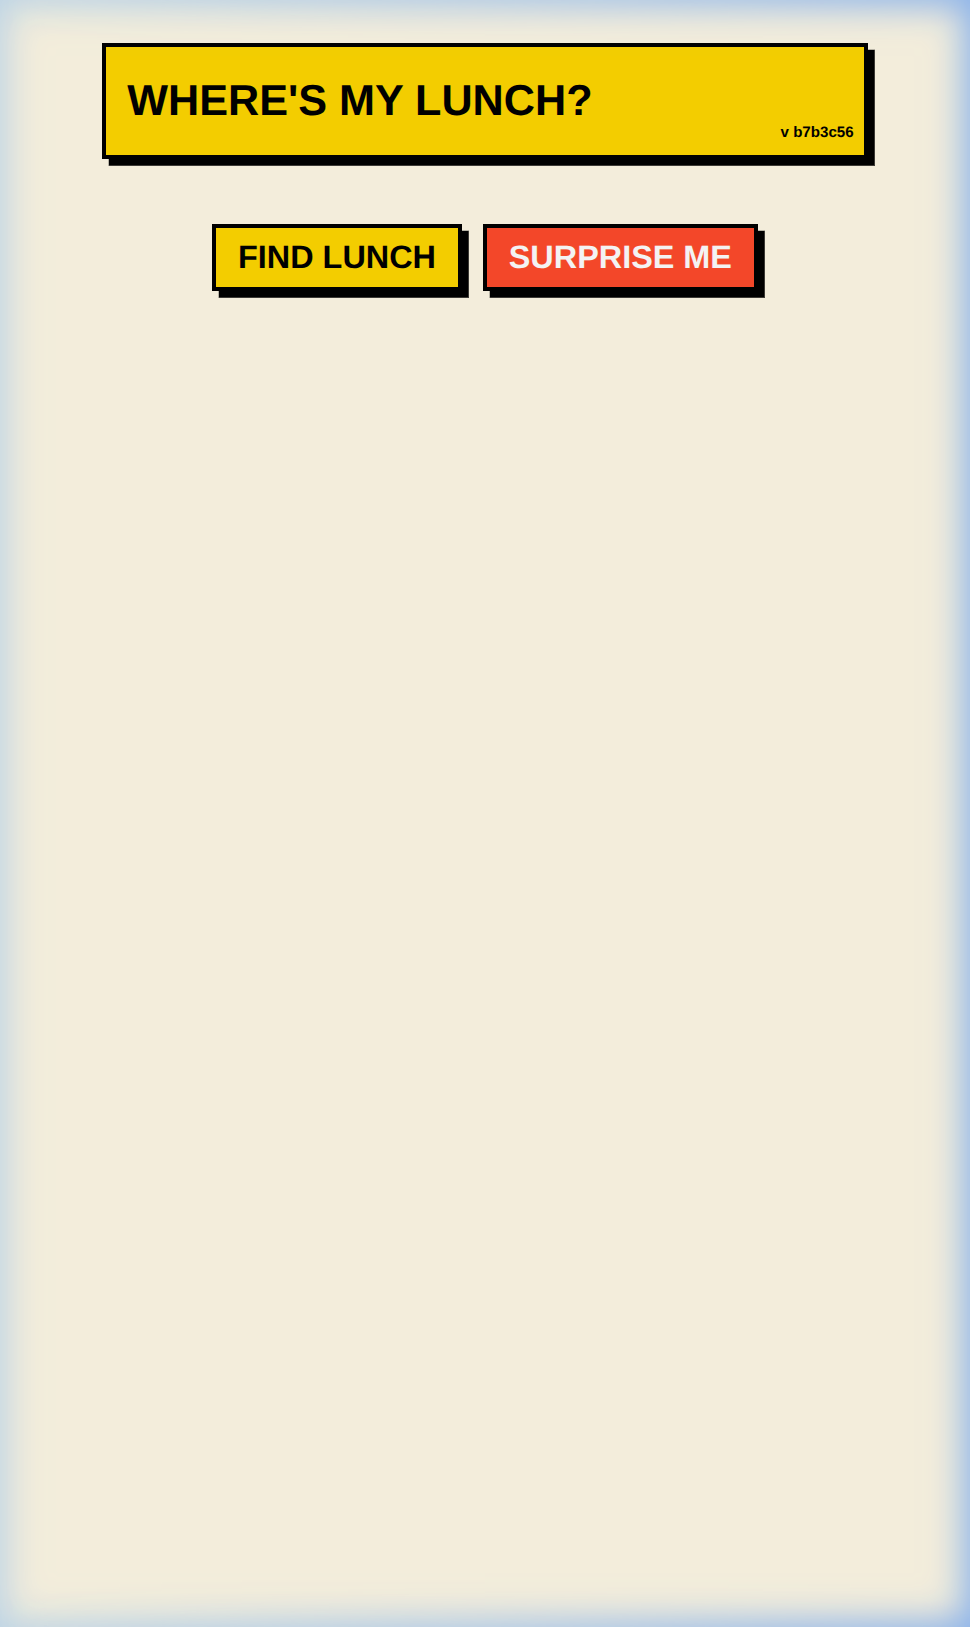
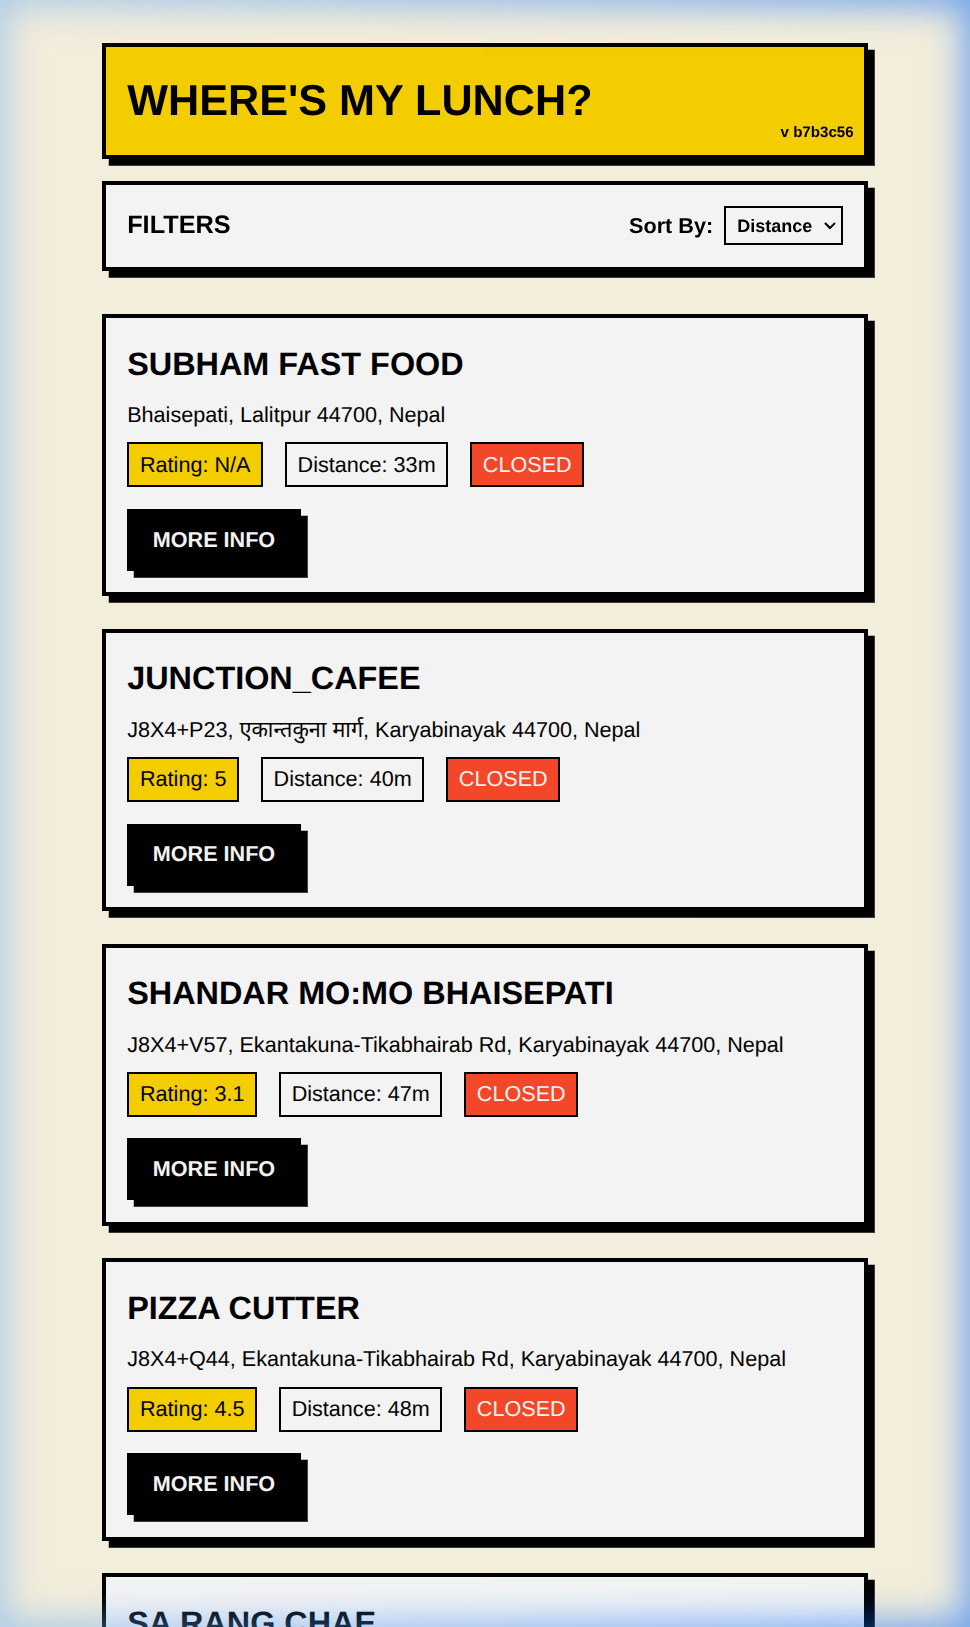
docs: use actual search results screenshot for PWA narrow view

Changed region(s): [[0.0928, 0.0922, 0.9278, 1.0]]

diff --git a/src/components/Header.tsx b/src/components/Header.tsx
@@ -4,7 +4,7 @@ export function Header() {
       <h1>Where's my lunch?</h1>
       {typeof __COMMIT_HASH__ !== 'undefined' && (
         <div style={{ position: 'absolute', bottom: '0.5rem', right: '0.5rem', fontSize: '0.7rem', fontWeight: 'bold' }}>
-          v {__COMMIT_HASH__}
+          v{__COMMIT_HASH__}
         </div>
       )}
     </header>

diff --git a/vite.config.ts b/vite.config.ts
@@ -58,7 +58,7 @@ export default defineConfig({
           },
           {
             src: 'screenshot-narrow.png',
-            sizes: '750x1334',
+            sizes: '970x1627',
             type: 'image/png',
             form_factor: 'narrow',
             label: 'Where\'s my lunch? mobile view'
